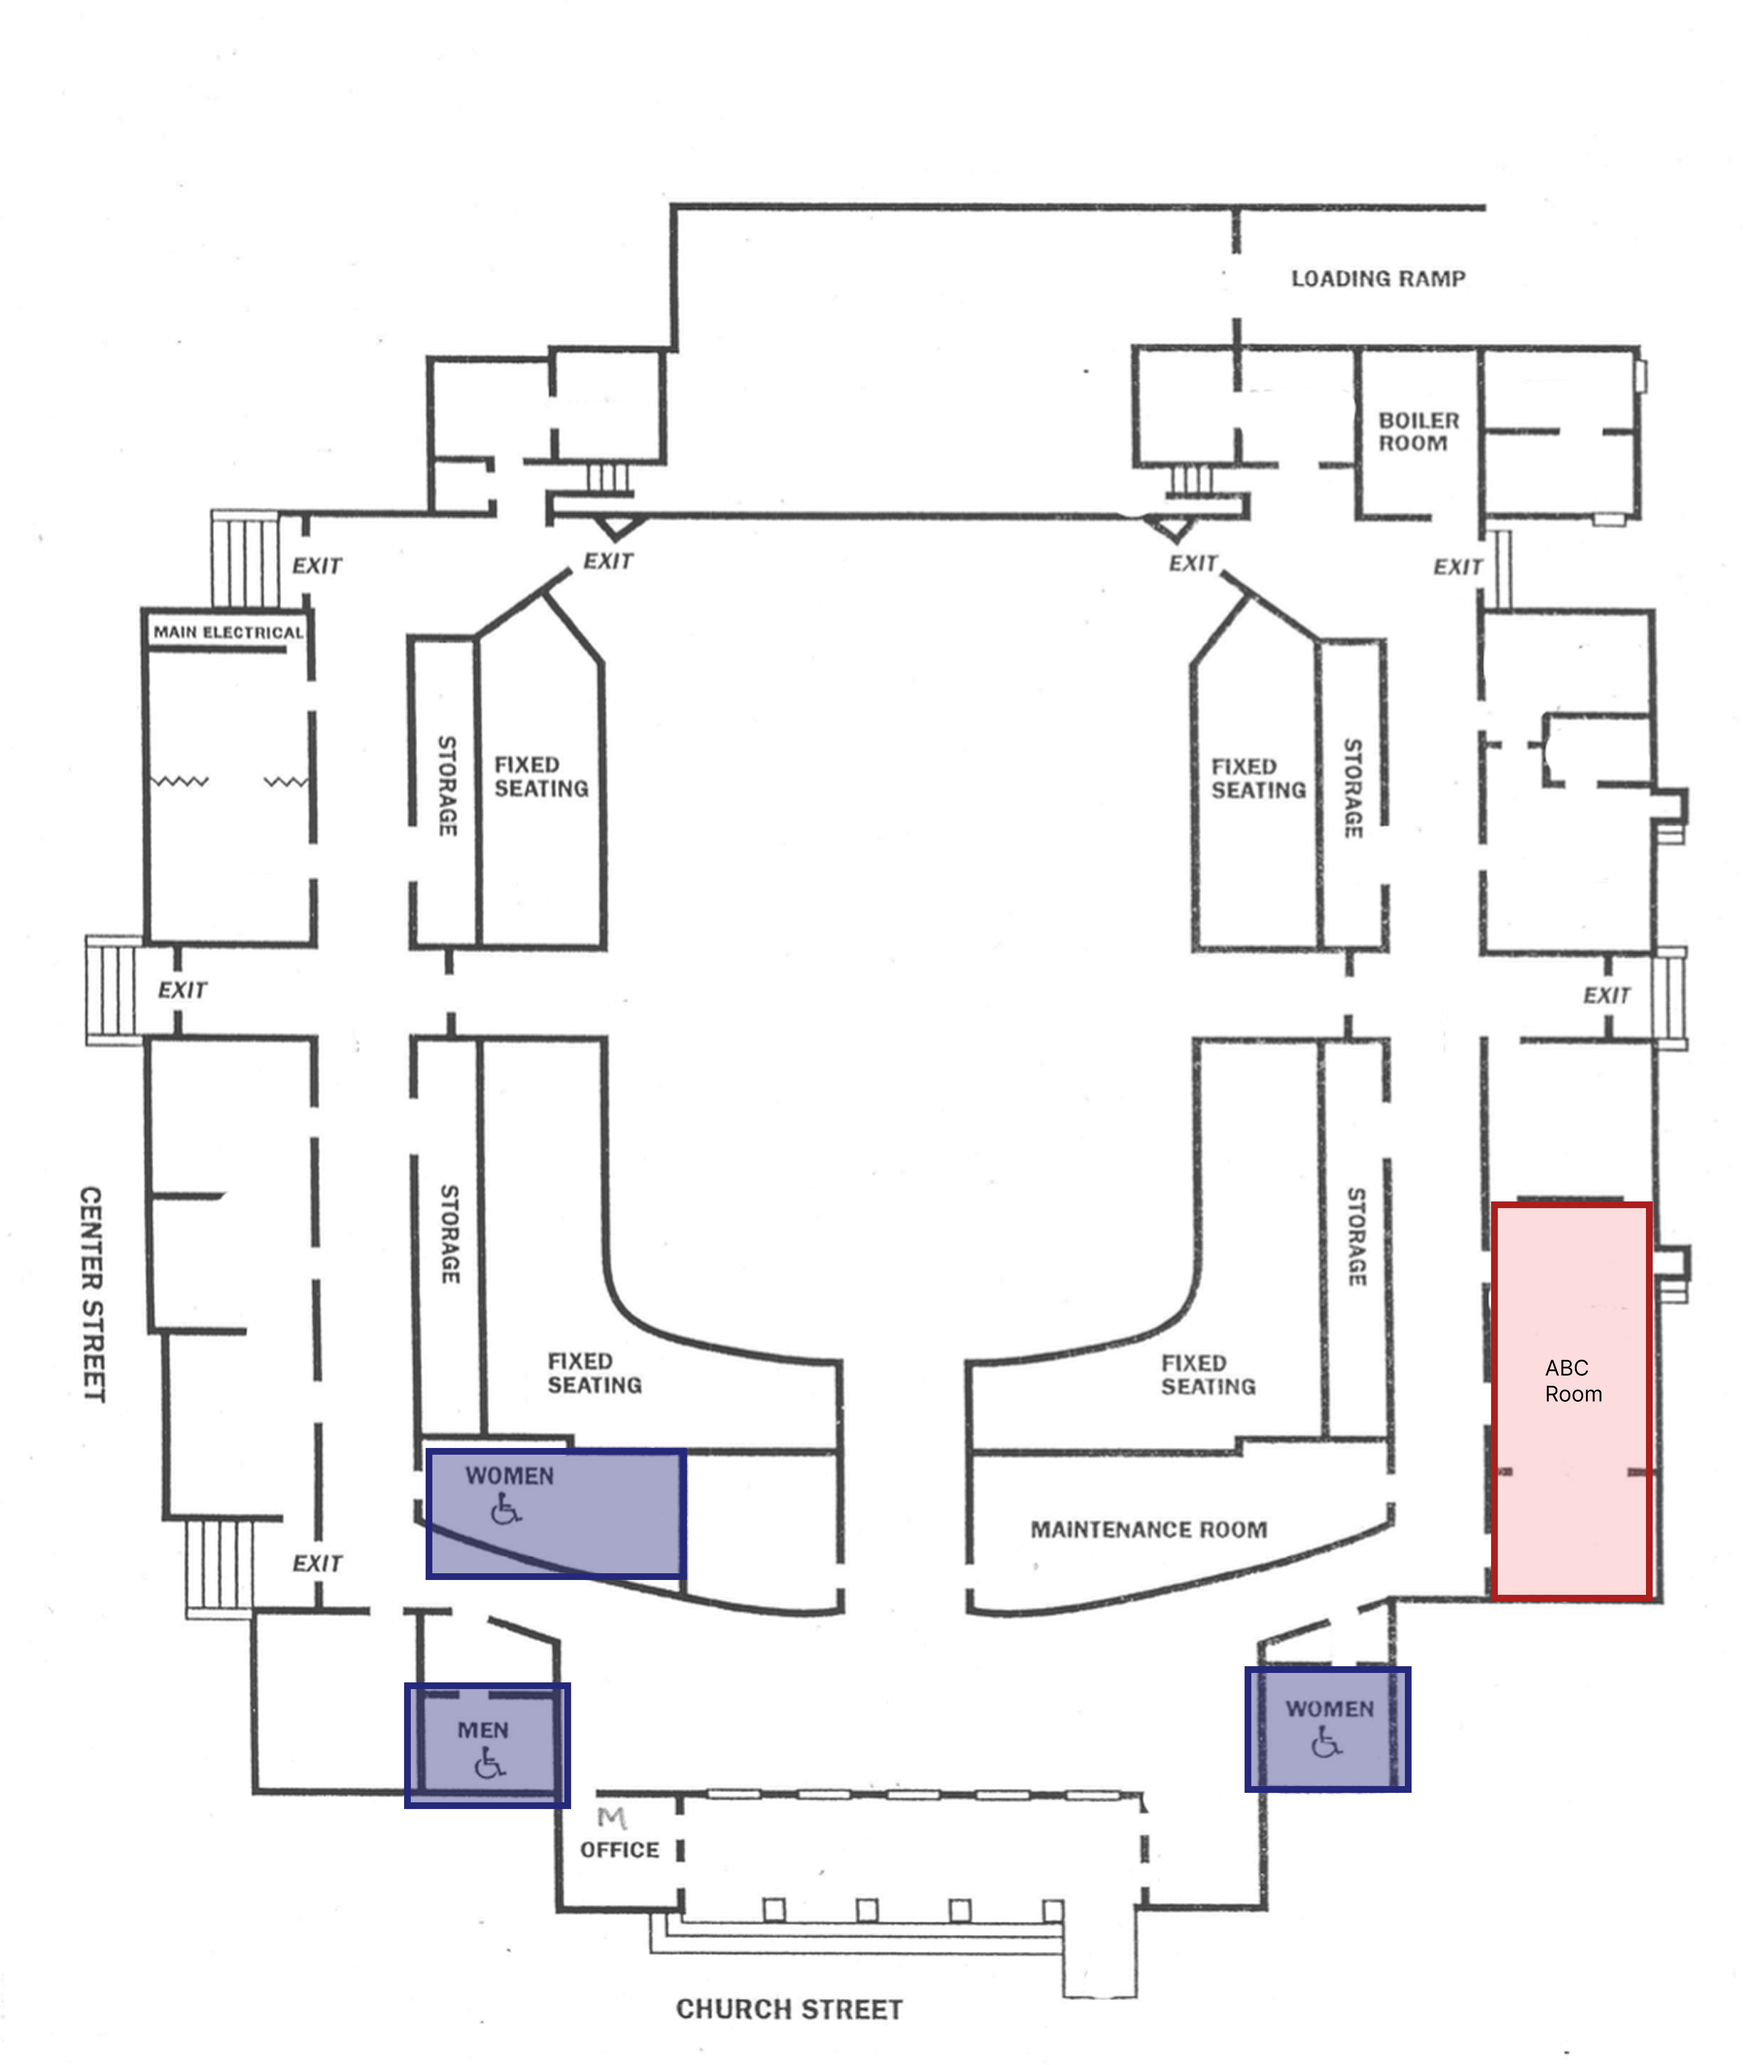
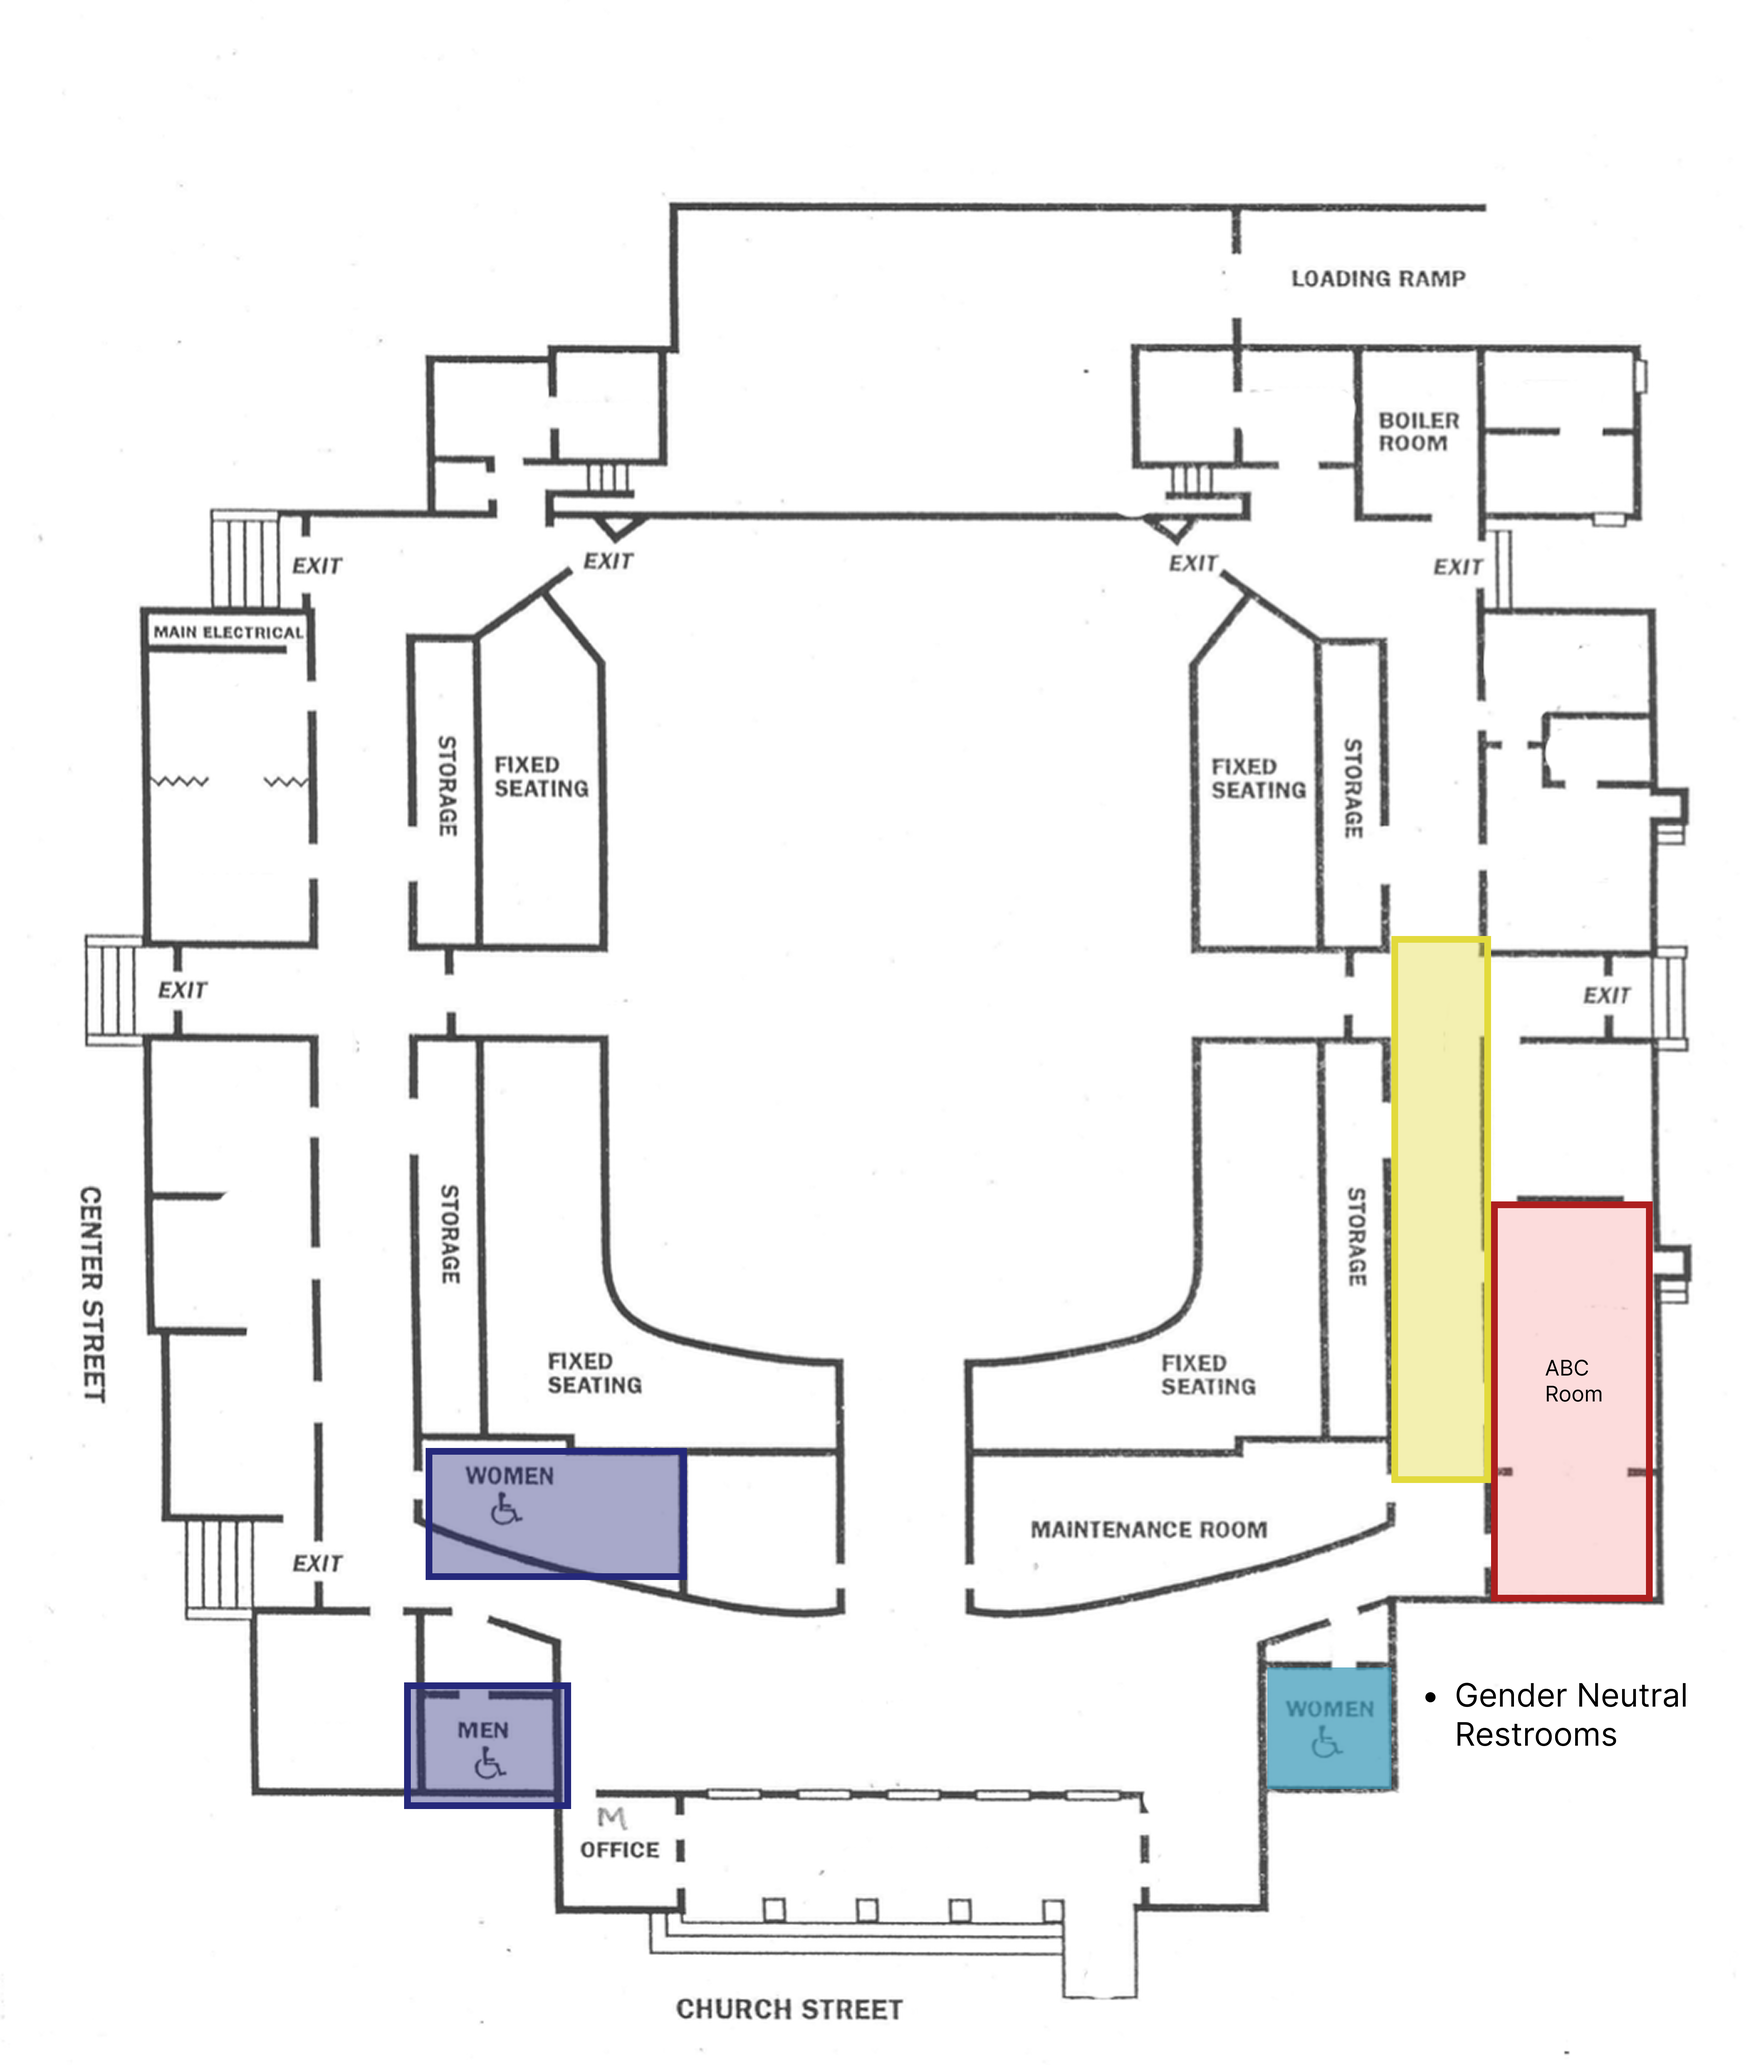
Added Map Keys + updated map png

Changed region(s): [[0.7797, 0.4361, 0.8733, 0.7165], [0.6862, 0.81, 0.9669, 0.8723]]

diff --git a/src/views/(static)/support/map/StevensonOutside.tsx b/src/views/(static)/support/map/StevensonOutside.tsx
@@ -25,6 +25,8 @@ const StevensonOutside: React.FC = () => {
         <div className='grow-1 flex justify-evenly gap-2 md:gap-5'>
           <MapKeyItem color='bg-[#AD1E1E]' label='ABC Room (workshops)' />
           <MapKeyItem color='bg-[#25287B]' label='Restrooms' />
+          <MapKeyItem color='bg-[#3696B7]' label='Gender Neutral Restrooms' />
+          <MapKeyItem color='bg-[#E2DA3C]' label='Food Service' />
         </div>
         <img
           className=' '
